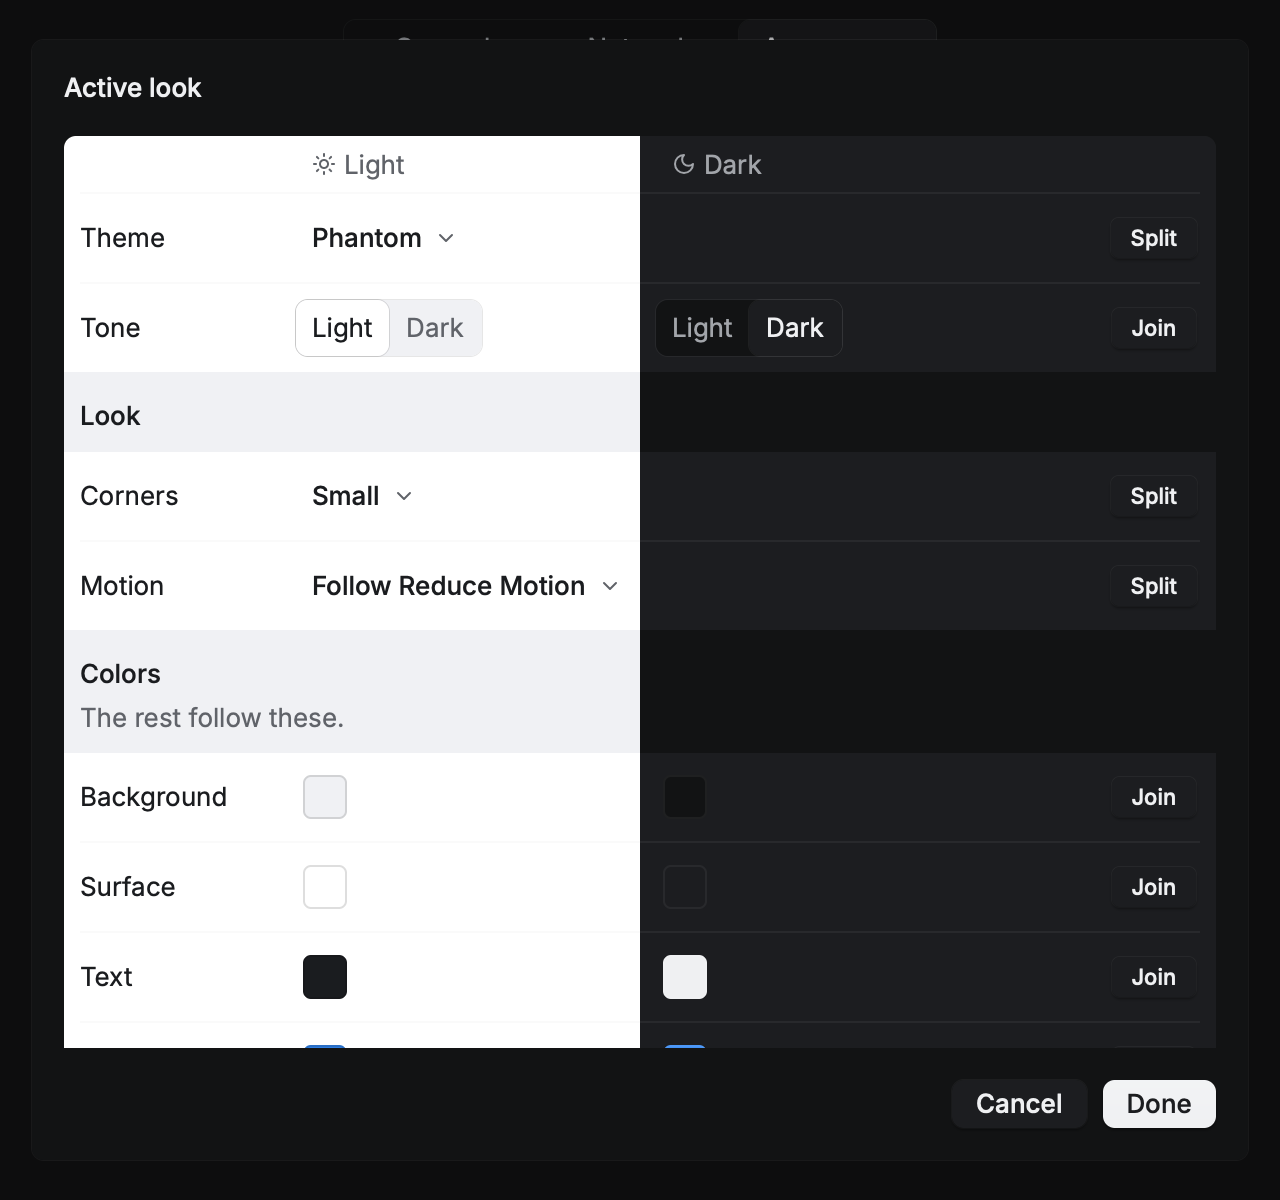
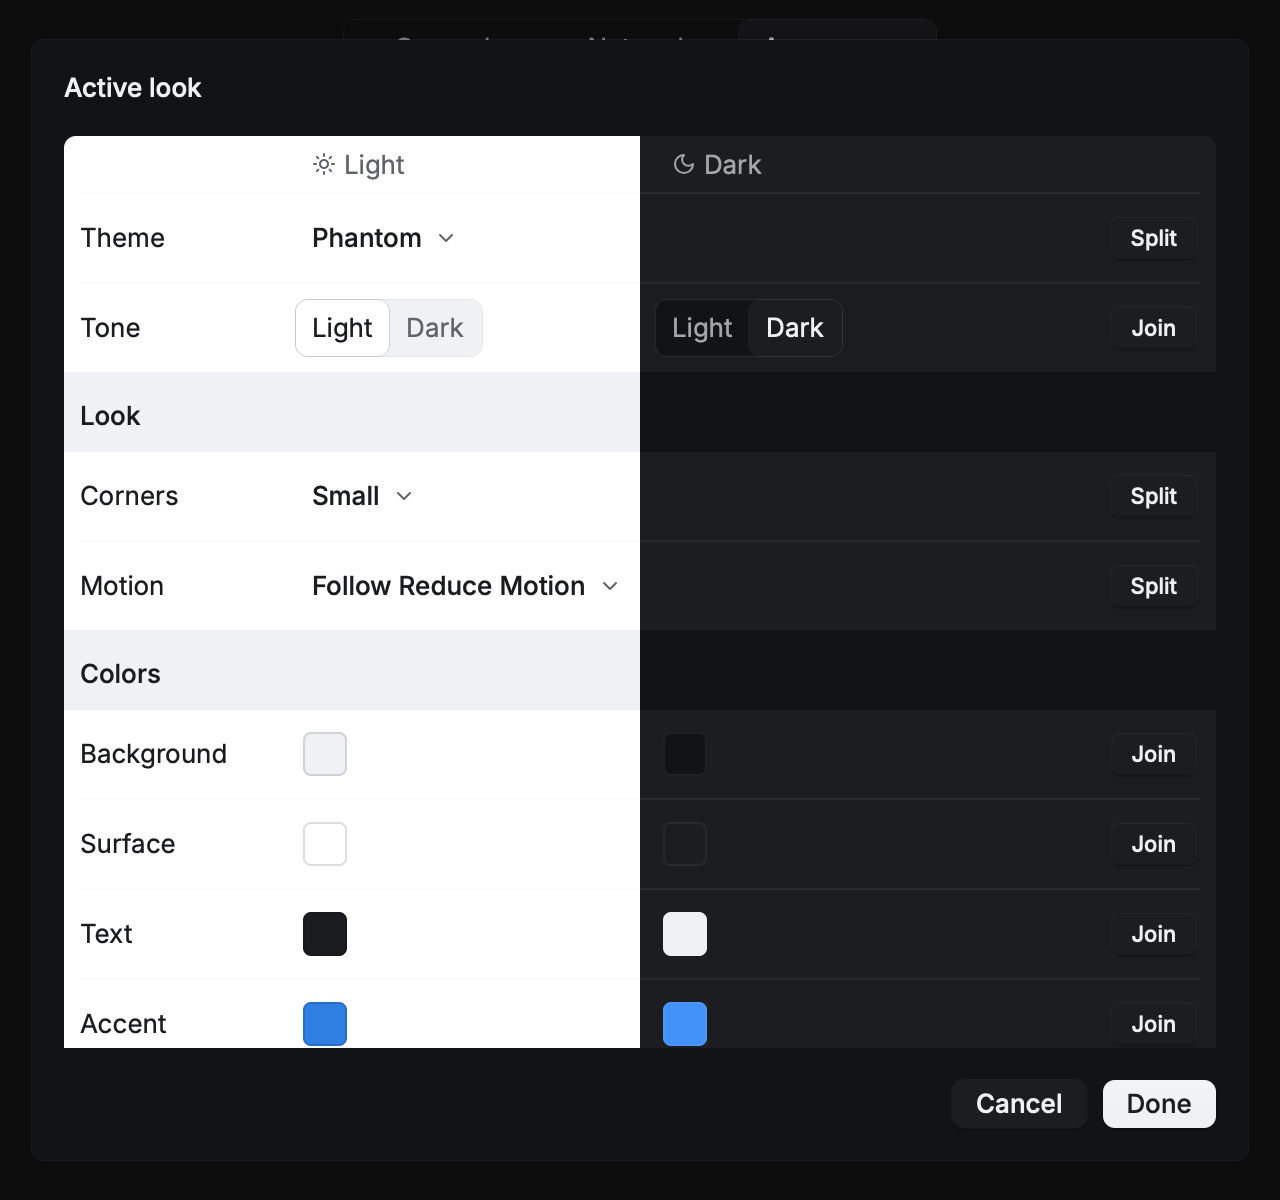
Artifacts for 417-colors

diff --git a/417-colors/index.md b/417-colors/index.md
@@ -1,13 +1,15 @@
 # #417 Colors (branch 417-colors)
 
-Headless renders (`--at 0.5`, 2x unless noted) of the real build, Light and Dark system Appearance (the sheet shows both halves either way). Data and downloads in temp dirs.
+Headless renders (re-rendered after the review fixes: no subtitle under Colors, the picker's kept room) (`--at 0.5`, 2x unless noted) of the real build, Light and Dark system Appearance (the sheet shows both halves either way). Data and downloads in temp dirs.
 
-- [sheet-light.png](sheet-light.png), [-dark](sheet-dark.png): the Active look's sheet: Look (Corners, Motion), Colors ("The rest follow these.") and the eight bases. 960x600.
+- [sheet-light.png](sheet-light.png), [-dark](sheet-dark.png): the Active look's sheet: Look (Corners, Motion), Colors and the eight bases. 960x600.
 - [narrow-sheet-light.png](narrow-sheet-light.png), [-dark](narrow-sheet-dark.png): the same at 640x600.
 - [every-light.png](every-light.png), [-dark](every-dark.png): "Every color" open, 960x1500 at 1x. Faint text set by hand in Light, Muted text in Dark: each ringed in its half's accent.
 - [narrow-every-light.png](narrow-every-light.png), [-dark](narrow-every-dark.png): the same at 640 wide ("Sheet and dialog" wraps).
 - [popup-faint-light.png](popup-faint-light.png), [-dark](popup-faint-dark.png), [narrow 640 light](narrow-popup-faint-light.png), [dark](narrow-popup-faint-dark.png): the picker on a hand-set Faint text (#a3a6ab): two warnings, Follow Text.
-- [popup-accent-light.png](popup-accent-light.png), [-dark](popup-accent-dark.png): the picker on a changed Accent (#6526d4): Reset, no warning (it passes 3:1).
+- [popup-accent-light.png](popup-accent-light.png), [-dark](popup-accent-dark.png): the picker on a changed Accent (#6526d4): Reset, no warning (it passes 3:1), and the room kept for the Accent's two warnings.
 - [tooltip-light.png](tooltip-light.png), [-dark](tooltip-dark.png): resting on Muted text's swatch: "#606369 · follows Text".
 - [main-accent-light.png](main-accent-light.png), [-dark](main-accent-dark.png): the main window with the Accent changed (#c2410c Light, #fb923c Dark): bars, selection, tab mark.
-- [drag-square-light.gif](drag-square-light.gif): opening the Accent's picker, dragging in the square, then the saturation bar; the color applies while dragging (1x, pointer shown). The popup jumps above the swatch when the warnings appear (known, see the PR).
+- [themes-every-light.png](themes-every-light.png), [-dark](themes-every-dark.png): a different theme in each half (Phantom ☀, the stand-in ☾): Phantom's "Every color" opened from its chevron row, as with one theme.
+- [drag-before-light.gif](drag-before-light.gif), [drag-after-light.gif](drag-after-light.gif): the same script, before and after the picker keeps room for its warnings: opening the Accent's picker, dragging in the square, then the saturation bar; the color applies while dragging (1x, pointer shown). Before, the popup grows and jumps above its swatch when the warnings appear; after, it stays put.
+- [drag-square-light.gif](drag-square-light.gif): the first version of the drag (the popup jumping), superseded by the pair above.
